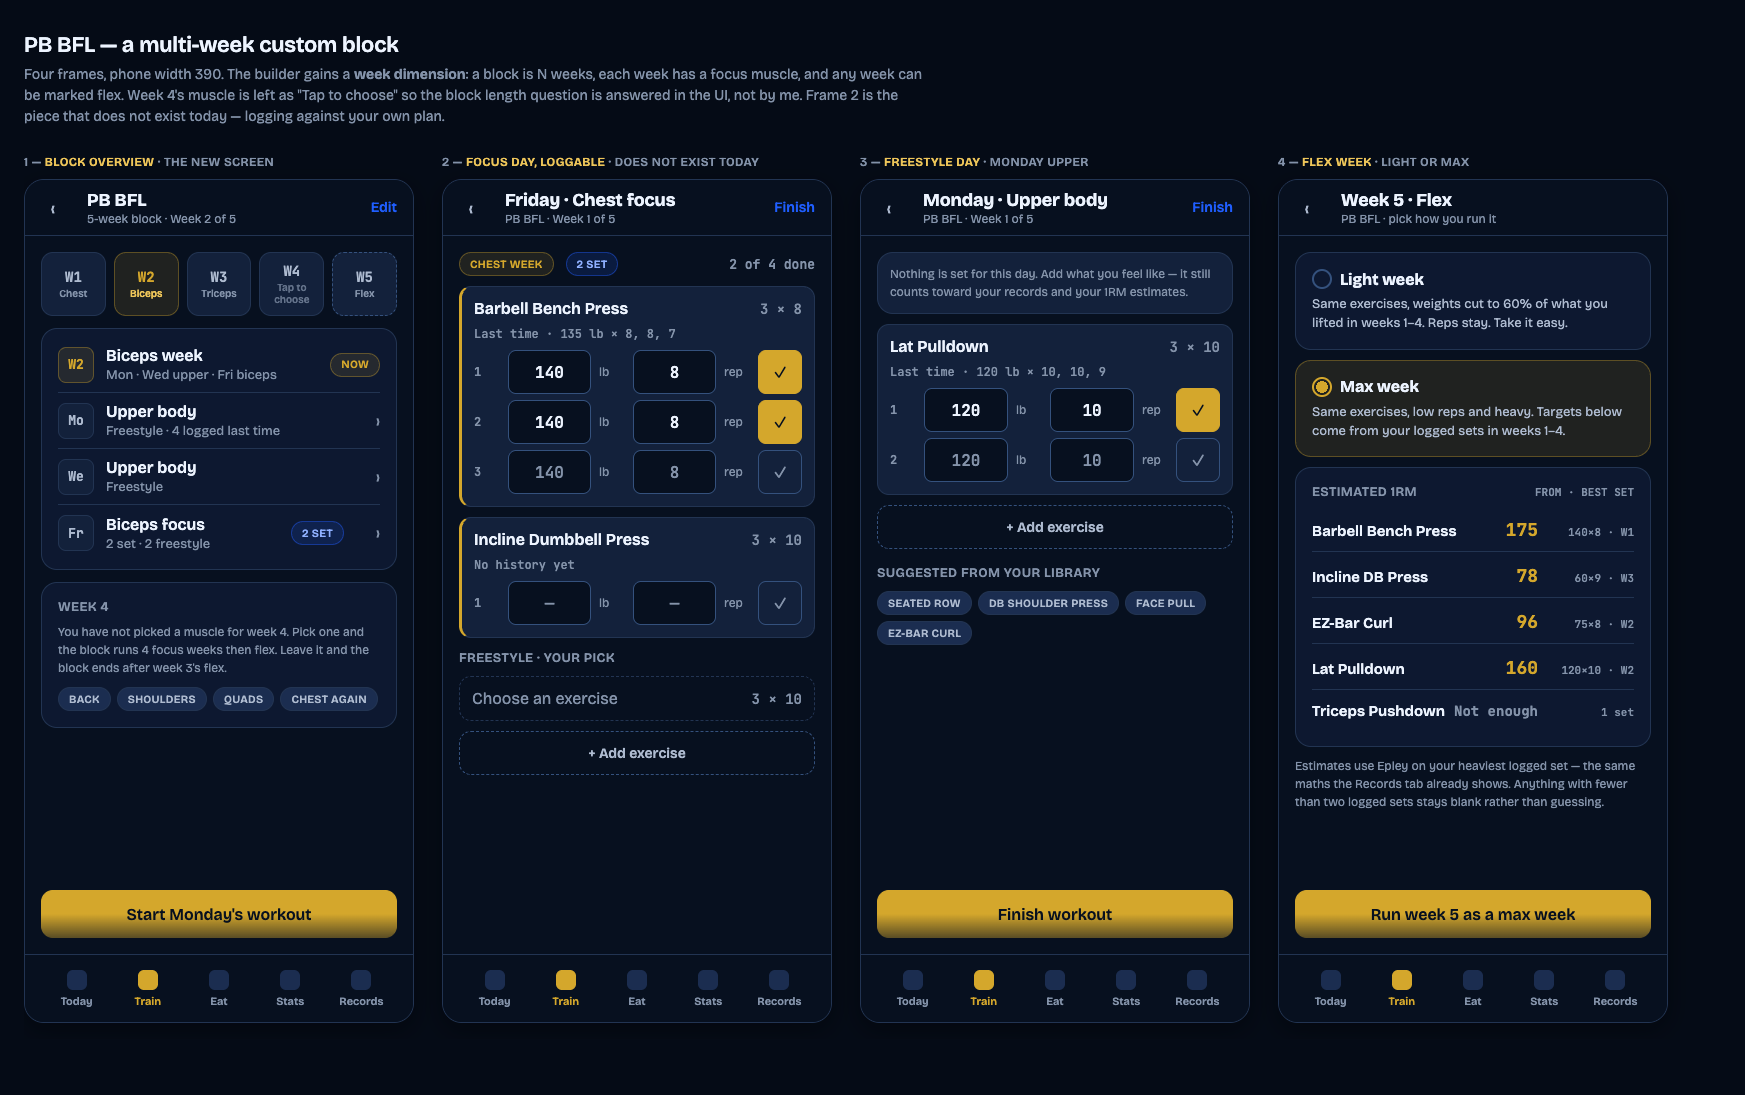
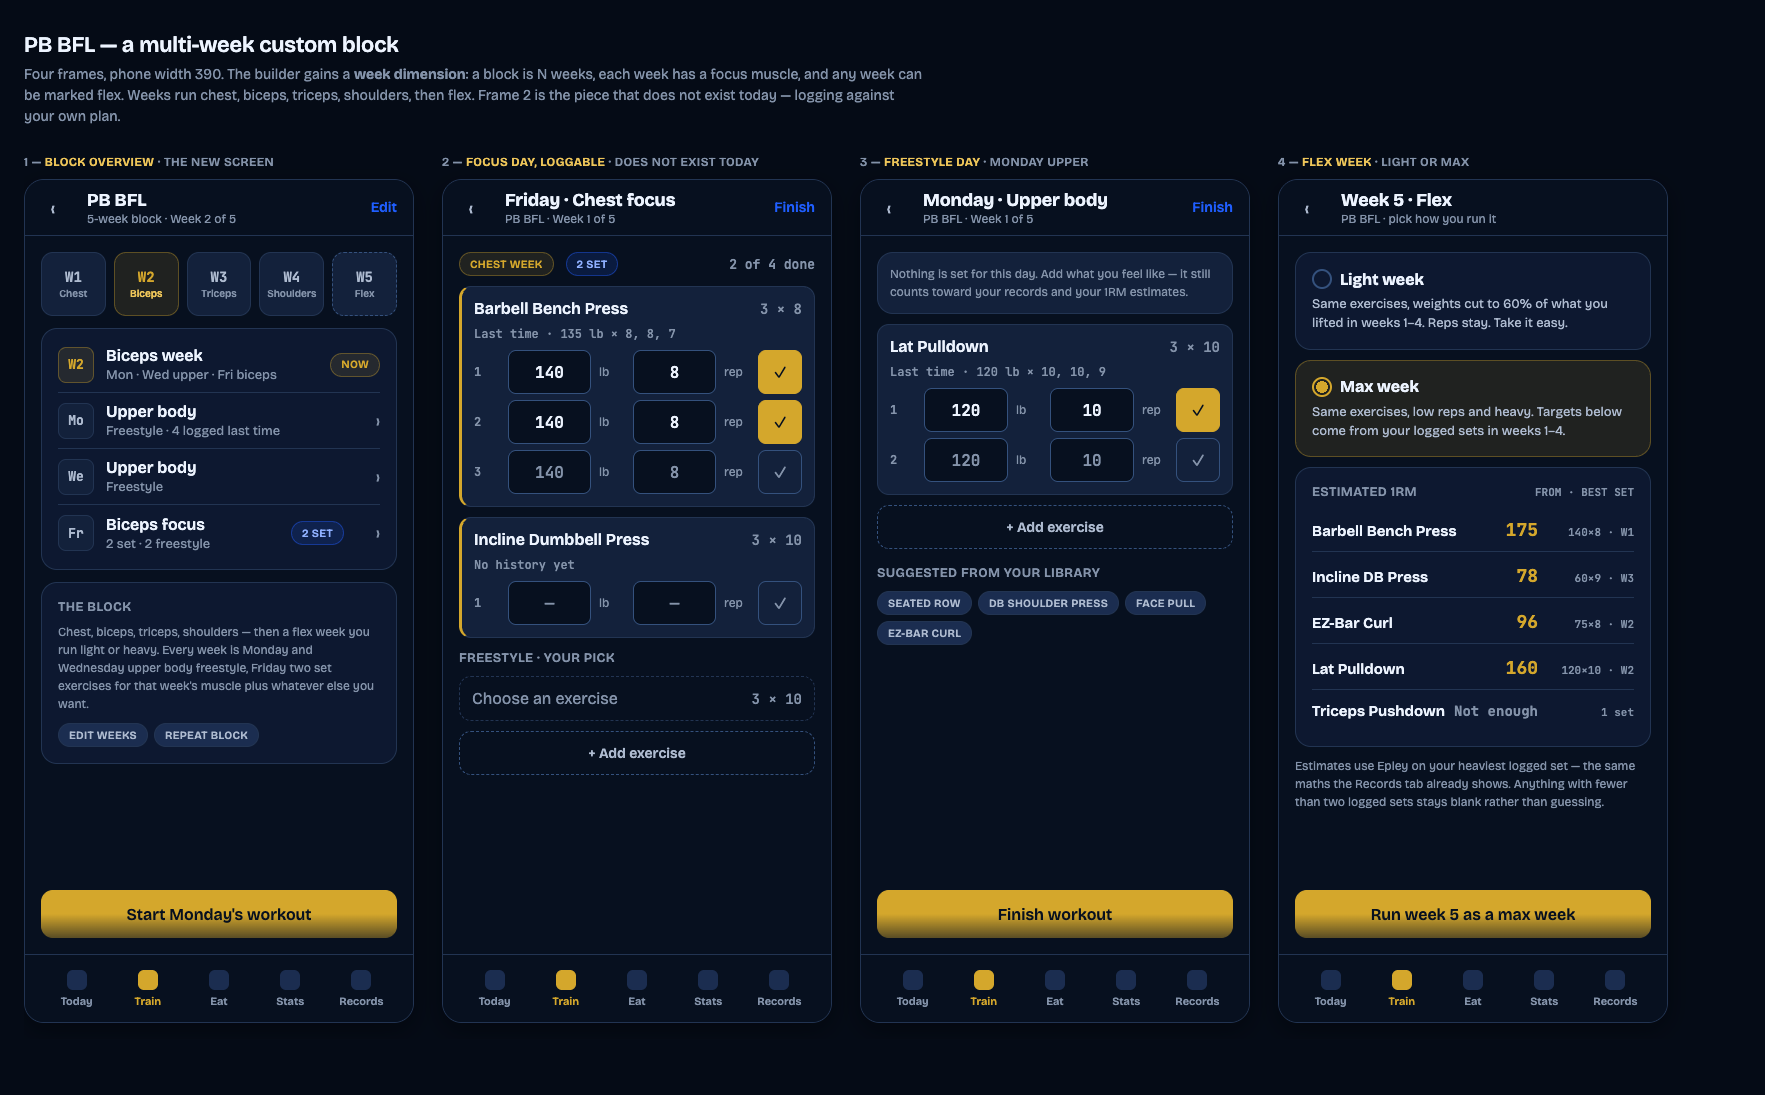
PB BFL: week 4 is shoulders

diff --git a/pb-bfl/index.html b/pb-bfl/index.html
@@ -125,7 +125,7 @@ body{background:#050b16;font-family:var(--sans);color:var(--text);padding:32px 2
 <body>
 
 <div class="sheet-title">PB BFL — a multi-week custom block</div>
-<div class="sheet-sub">Four frames, phone width 390. The builder gains a <b>week dimension</b>: a block is N weeks, each week has a focus muscle, and any week can be marked flex. Week 4's muscle is left as "Tap to choose" so the block length question is answered in the UI, not by me. Frame 2 is the piece that does not exist today — logging against your own plan.</div>
+<div class="sheet-sub">Four frames, phone width 390. The builder gains a <b>week dimension</b>: a block is N weeks, each week has a focus muscle, and any week can be marked flex. Weeks run chest, biceps, triceps, shoulders, then flex. Frame 2 is the piece that does not exist today — logging against your own plan.</div>
 
 <div class="rail">
 
@@ -147,7 +147,7 @@ body{background:#050b16;font-family:var(--sans);color:var(--text);padding:32px 2
         <div class="wk"><div class="n">W1</div><div class="m">Chest</div></div>
         <div class="wk now"><div class="n">W2</div><div class="m">Biceps</div></div>
         <div class="wk"><div class="n">W3</div><div class="m">Triceps</div></div>
-        <div class="wk todo"><div class="n">W4</div><div class="m">Tap to<br>choose</div></div>
+        <div class="wk"><div class="n">W4</div><div class="m">Shoulders</div></div>
         <div class="wk flex"><div class="n">W5</div><div class="m">Flex</div></div>
       </div>
 
@@ -188,11 +188,10 @@ body{background:#050b16;font-family:var(--sans);color:var(--text);padding:32px 2
       </div>
 
       <div class="card" style="display:flex;flex-direction:column;gap:8px">
-        <div class="lbl">Week 4</div>
-        <div class="note">You have not picked a muscle for week 4. Pick one and the block runs 4 focus weeks then flex. Leave it and the block ends after week 3's flex.</div>
+        <div class="lbl">The block</div>
+        <div class="note">Chest, biceps, triceps, shoulders — then a flex week you run light or heavy. Every week is Monday and Wednesday upper body freestyle, Friday two set exercises for that week's muscle plus whatever else you want.</div>
         <div class="row" style="gap:6px;flex-wrap:wrap;margin-top:2px">
-          <div class="pill">Back</div><div class="pill">Shoulders</div>
-          <div class="pill">Quads</div><div class="pill">Chest again</div>
+          <div class="pill">Edit weeks</div><div class="pill">Repeat block</div>
         </div>
       </div>
 
